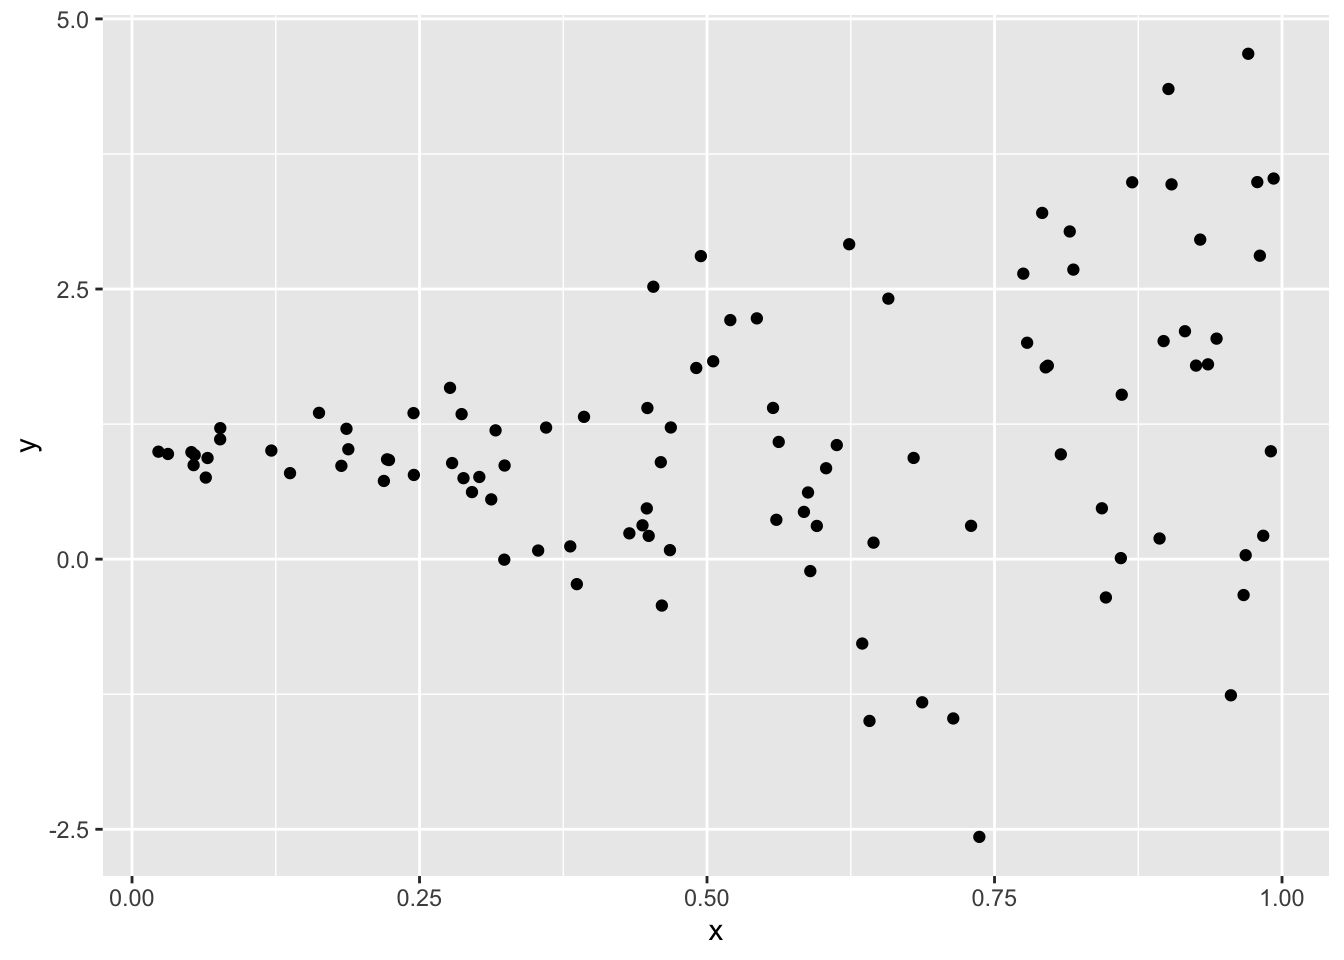
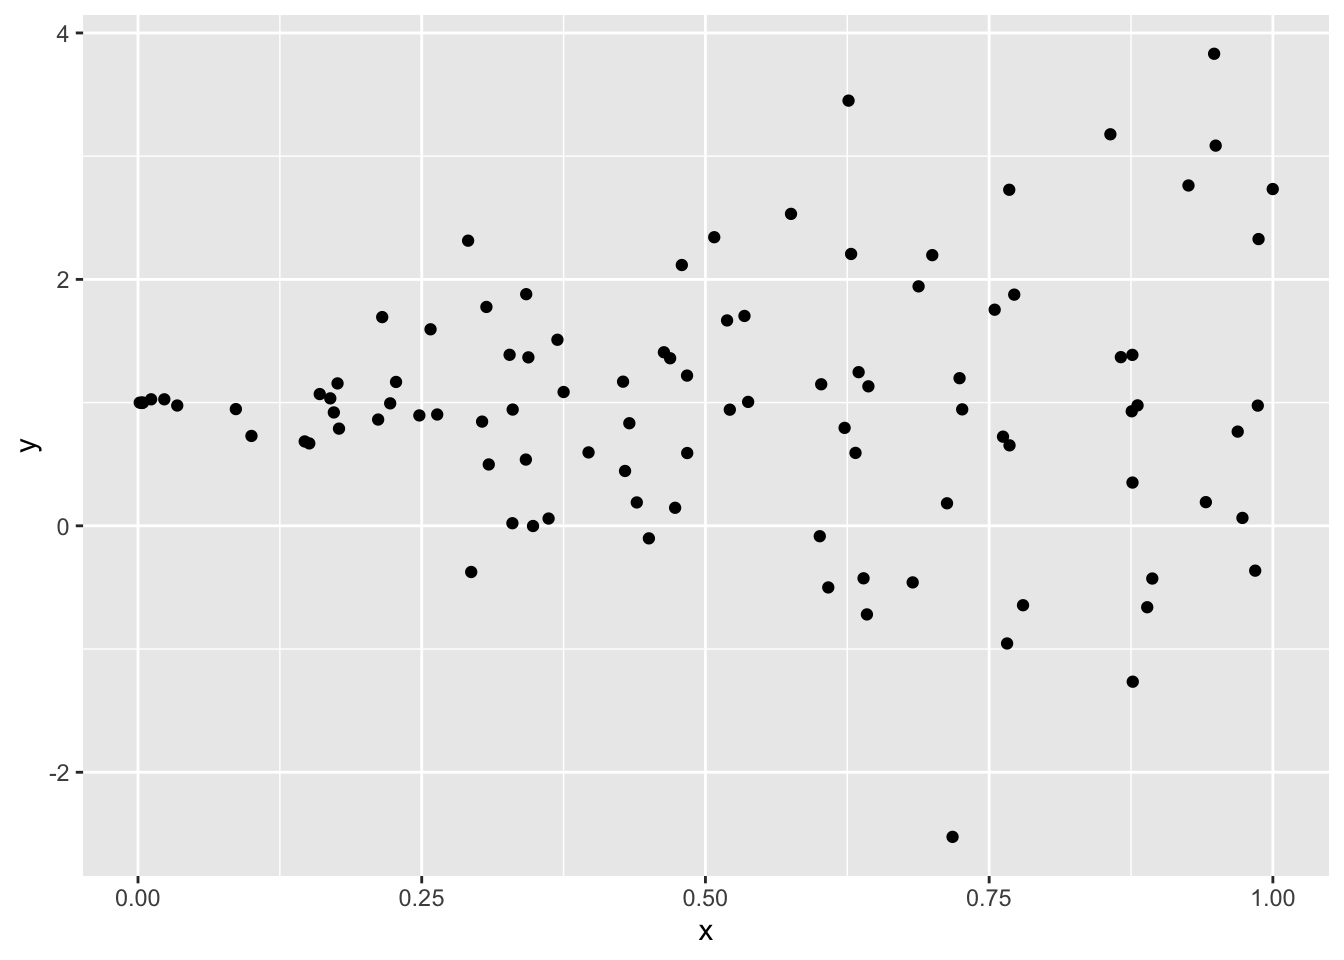
adding project

diff --git a/projects.html b/projects.html
@@ -11,7 +11,7 @@
 
 
 
-<title>My awesome website</title>
+<title>Projects</title>
 
 <script src="site_libs/header-attrs-2.25/header-attrs.js"></script>
 <script src="site_libs/jquery-3.6.0/jquery-3.6.0.min.js"></script>
@@ -350,55 +350,17 @@ div.tocify {
 
 
 
-<h1 class="title toc-ignore">My awesome website</h1>
+<h1 class="title toc-ignore">Projects</h1>
 
 </div>
 
 
-<div id="this-is-jeffs-awesome-website" class="section level1">
-<h1>This is Jeff’s awesome website</h1>
-<p>Here’s a gif of elmo</p>
-<p><img
-src="https://media.giphy.com/media/drXGoW1iudhKw/giphy.gif" /></p>
-<p>You can add text</p>
-<ul>
-<li>and lists</li>
-<li>with extra bullets</li>
-</ul>
-<p>You can <em>format</em> and <strong>bold?</strong></p>
-<p>This is a <a href="https://www.google.com/">link</a> to a data
-science tool. Here’s a <a href="https://p8105.com/">link</a> to
-p8105.</p>
-<p>Here’s a link to the <a href="about.html">about</a> page.</p>
-<p>You can also still use R</p>
-<pre class="r"><code>library(tidyverse)</code></pre>
-<pre><code>## ── Attaching core tidyverse packages ──────────────────────── tidyverse 2.0.0 ──
-## ✔ dplyr     1.1.3     ✔ readr     2.1.4
-## ✔ forcats   1.0.0     ✔ stringr   1.5.0
-## ✔ ggplot2   3.4.3     ✔ tibble    3.2.1
-## ✔ lubridate 1.9.2     ✔ tidyr     1.3.0
-## ✔ purrr     1.0.2     
-## ── Conflicts ────────────────────────────────────────── tidyverse_conflicts() ──
-## ✖ dplyr::filter() masks stats::filter()
-## ✖ dplyr::lag()    masks stats::lag()
-## ℹ Use the conflicted package (&lt;http://conflicted.r-lib.org/&gt;) to force all conflicts to become errors</code></pre>
-<pre class="r"><code>plot_df = 
-  tibble(
-    x = runif(100),
-    y = 1 + 2*x*rnorm(100)
-  )
-
-plot_df|&gt;
-  ggplot(aes(x = x, y = y))+
-  geom_point()</code></pre>
-<p><img src="index_files/figure-html/unnamed-chunk-1-1.png" width="672" /></p>
-</div>
-<div id="new-section" class="section level1">
-<h1>New Section</h1>
-<p>My cat is ted. This is ted:</p>
-<p><img src="images/ted.jpg" /></p>
-<p>Also here’s the “backstage” are in Alumni Auditorium:</p>
-<p><img src="images/backstage.jpg" /></p>
+<div id="project" class="section level1">
+<h1>Project</h1>
+<p>Here’s a nice project:</p>
+<p>library(tidyverse)</p>
+<p>plot_df = tibble( x = runif(100), y = 1 + 2<em>x</em>rnorm(100) )</p>
+<p>plot_df|&gt; ggplot(aes(x = x, y = y))+ geom_point()</p>
 </div>
 
 
